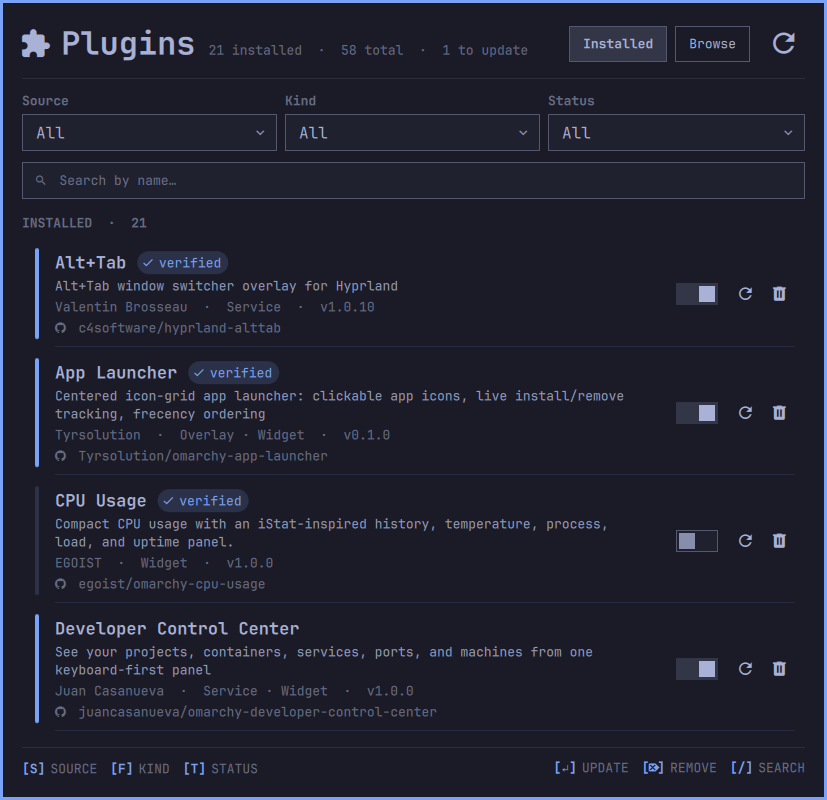
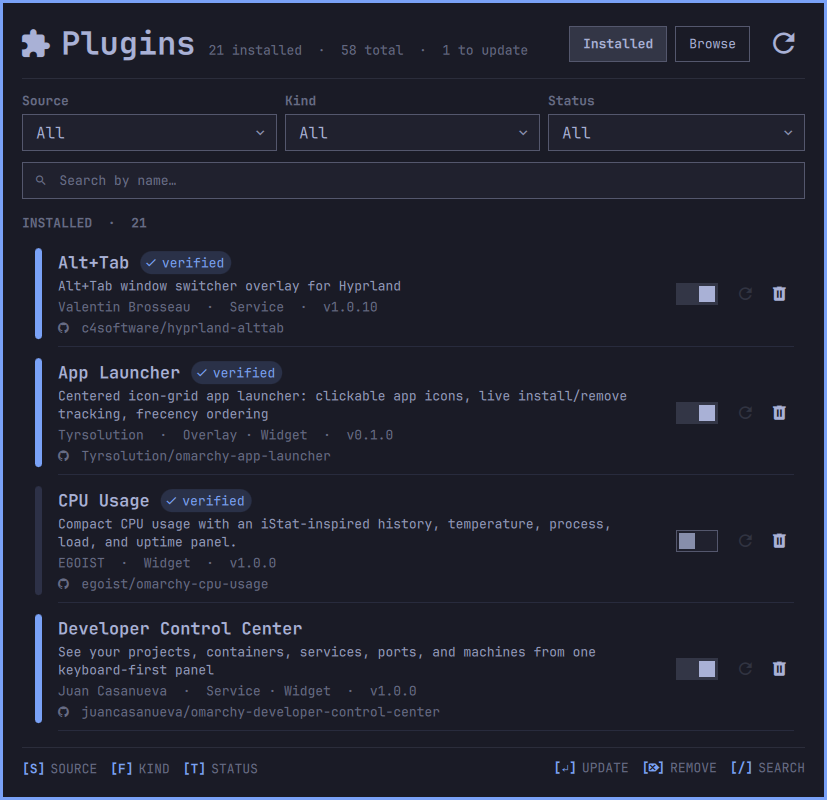
fix: replay keyboard filter cycles into their dropdowns
A mouse pick assigns the Dropdown's own value, which breaks the binding
to the filter; a later key cycle then changed the filter while the
dropdown kept showing the old choice. Kind already replayed the filter
back in; Source, Status, and the four Browse dropdowns now do the same.

Also recapture both README screenshots for v1.5.10.

diff --git a/Panel.qml b/Panel.qml
@@ -74,9 +74,22 @@ Panel {
       if (kindOptions[i].value === kindFilter) return
     setKindFilter("all")
   }
-  // Dropdown selection assigns its own value, so replay later model changes.
+  // Dropdown selection assigns its own value, which breaks the binding, so
+  // every filter a key can cycle replays later changes into its dropdown.
   onKindFilterChanged: if (kindDropdown && kindDropdown.value !== kindFilter)
     kindDropdown.value = kindFilter
+  onGroupFilterChanged: if (groupDropdown && groupDropdown.value !== groupFilter)
+    groupDropdown.value = groupFilter
+  onStatusFilterChanged: if (statusDropdown && statusDropdown.value !== statusFilter)
+    statusDropdown.value = statusFilter
+  onCategoryFilterChanged: if (categoryDropdown && categoryDropdown.value !== categoryFilter)
+    categoryDropdown.value = categoryFilter
+  onCatalogKindFilterChanged: if (catalogKindDropdown && catalogKindDropdown.value !== catalogKindFilter)
+    catalogKindDropdown.value = catalogKindFilter
+  onAvailabilityFilterChanged: if (availabilityDropdown && availabilityDropdown.value !== availabilityFilter)
+    availabilityDropdown.value = availabilityFilter
+  onCatalogSortChanged: if (sortDropdown && sortDropdown.value !== catalogSort)
+    sortDropdown.value = catalogSort
 
   // One flat filtered list drives selection; the two section slices below are
   // views onto it, in the same order, so a single index addresses both.
